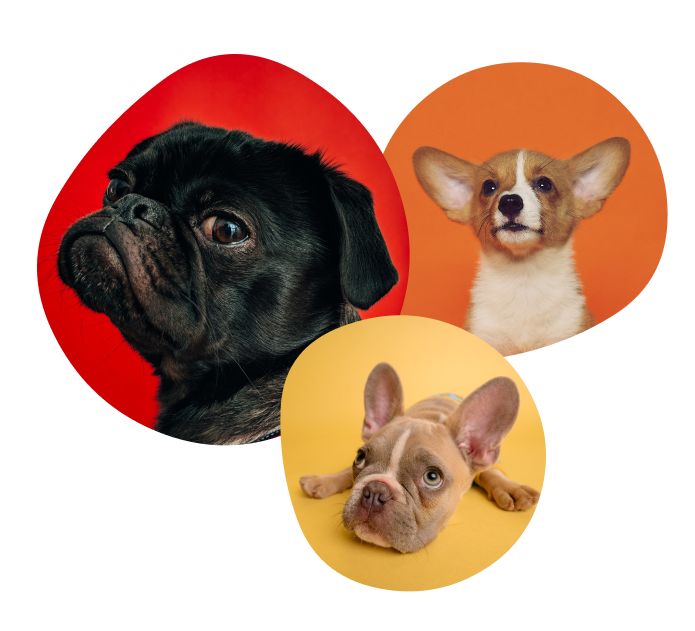
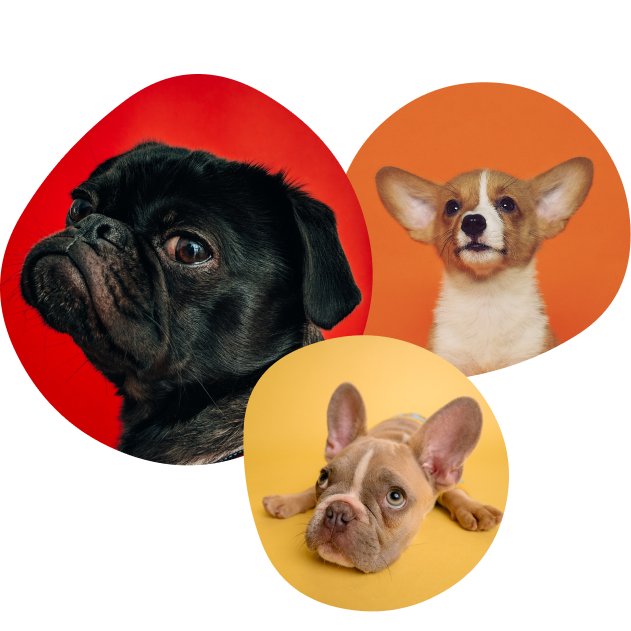
[Add] transition and seed

diff --git a/app/assets/stylesheets/components/_landing.scss b/app/assets/stylesheets/components/_landing.scss
@@ -1,3 +1,43 @@
+
+#cf {
+  position:relative;
+  height:281px;
+  width:450px;
+  margin:0 auto;
+}
+
+#cf img {
+  position:absolute;
+  left:0;
+  -webkit-transition: opacity 1s ease-in-out;
+  -moz-transition: opacity 1s ease-in-out;
+  -o-transition: opacity 1s ease-in-out;
+  transition: opacity 1s ease-in-out;
+}
+
+  @keyframes cf3FadeInOut {
+  0% {
+  opacity:1;
+}
+45% {
+opacity:1;
+}
+55% {
+opacity:0;
+}
+100% {
+opacity:0;
+}
+}
+
+#cf img.top {
+animation-name: cf3FadeInOut;
+animation-timing-function: ease-in-out;
+animation-iteration-count: infinite;
+animation-duration: 6s;
+animation-direction: alternate;
+}
+
 .banner{
   width:660px;
   h1{
@@ -5,10 +45,7 @@
     font-weight: bold;
     color:var(--black);
     letter-spacing:0.08em;
-
   }
-  .image-transition{
-}
 
   p{
     width: 470px;

diff --git a/app/javascript/packs/application.js b/app/javascript/packs/application.js
@@ -47,6 +47,6 @@ document.addEventListener('turbolinks:load', () => {
   initDragAndDrop();
   initSelect2();
   initMapbox();
-  initLandingPage();
+  // initLandingPage();
   initSearch();
 });

diff --git a/db/seeds.rb b/db/seeds.rb
@@ -452,7 +452,7 @@ pet22 = Pet.create(
   description: "I work as a Police. But don't think my name is Max. My best quality is my scent. I help close a lot
   of cases. For me it is important to contribute to the development of a fairer and safer society.",
   birthday: Faker::Date.birthday,
-  breed: "German Shepherd",
+  breed: "German Shepherd Dog",
   address: "Rua da Oliveira do Carmo, Porto"
 )
 pet22.photo.attach(
@@ -470,7 +470,7 @@ pet23 = Pet.create(
   Every morning she practice run because she like to feel good physically and mentally.She is fun and sweet.",
   on_heat: false,
   birthday: Faker::Date.birthday,
-  breed: "Jack Russell",
+  breed: "Jack Russell Terrier",
   address: "Rua Guilherme da Silva, Alhandra"
 )
 pet23.photo.attach(
@@ -582,7 +582,7 @@ pet29 = Pet.create(
   I like to spend weekends in the countryside where I can be closer to nature.
   I consider myself affectionate, detailed, happy and faithful.",
   birthday: Faker::Date.birthday,
-  breed: "Welsh Corgi Pembroke",
+  breed: "Pembroke Welsh Corgi",
   address: "Rua do Sacramento, Lisboa"
 )
 pet29.photo.attach(
